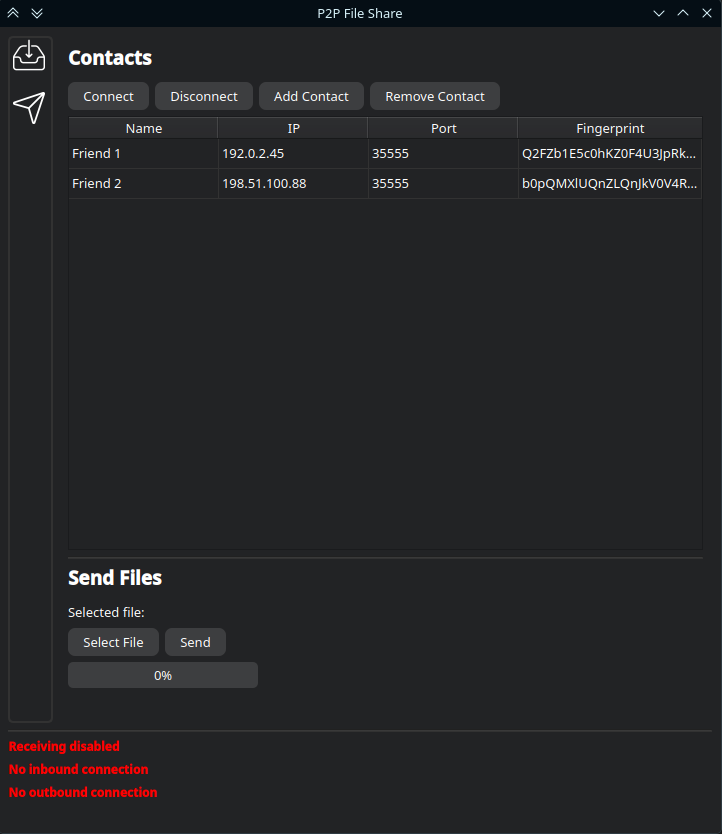
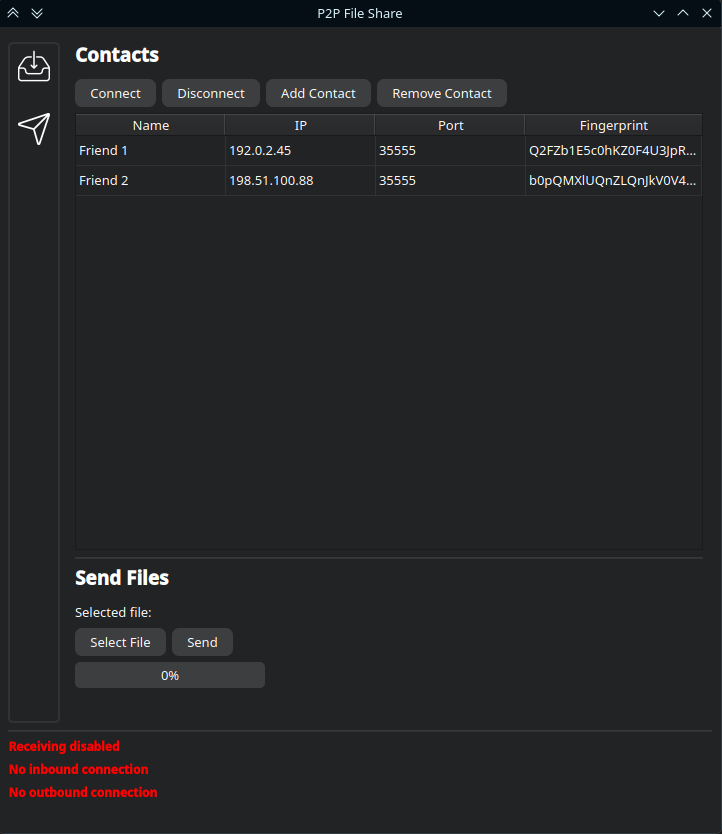
Small UI change + removed unused code

diff --git a/src/gui_layout.py b/src/gui_layout.py
@@ -27,17 +27,23 @@ class Ui_MainWindow(object):
         self.verticalLayout_23 = QtWidgets.QVBoxLayout()
         self.verticalLayout_23.setObjectName("verticalLayout_23")
         self.horizontalLayout_4 = QtWidgets.QHBoxLayout()
+        self.horizontalLayout_4.setContentsMargins(-1, 6, -1, -1)
         self.horizontalLayout_4.setObjectName("horizontalLayout_4")
         self.sidebar = QtWidgets.QListWidget(parent=self.centralwidget)
-        self.sidebar.setMaximumSize(QtCore.QSize(45, 16777215))
+        self.sidebar.setMaximumSize(QtCore.QSize(52, 16777215))
         self.sidebar.setStyleSheet("QListWidget {\n"
 "    outline: 0;\n"
 "    border: 2px solid rgb(50, 50, 50);\n"
 "    border-radius: 5px;\n"
+"}\n"
+"\n"
+"QListWidget::item {\n"
+"        padding: 5px;\n"
 "}")
         self.sidebar.setSelectionMode(QtWidgets.QAbstractItemView.SelectionMode.NoSelection)
         self.sidebar.setIconSize(QtCore.QSize(32, 32))
         self.sidebar.setMovement(QtWidgets.QListView.Movement.Static)
+        self.sidebar.setFlow(QtWidgets.QListView.Flow.TopToBottom)
         self.sidebar.setResizeMode(QtWidgets.QListView.ResizeMode.Adjust)
         self.sidebar.setViewMode(QtWidgets.QListView.ViewMode.IconMode)
         self.sidebar.setItemAlignment(QtCore.Qt.AlignmentFlag.AlignCenter)
@@ -48,6 +54,7 @@ class Ui_MainWindow(object):
         self.receivePage = QtWidgets.QWidget()
         self.receivePage.setObjectName("receivePage")
         self.verticalLayout = QtWidgets.QVBoxLayout(self.receivePage)
+        self.verticalLayout.setContentsMargins(-1, 0, -1, -1)
         self.verticalLayout.setObjectName("verticalLayout")
         self.horizontalLayout_18 = QtWidgets.QHBoxLayout()
         self.horizontalLayout_18.setObjectName("horizontalLayout_18")
@@ -450,6 +457,7 @@ class Ui_MainWindow(object):
         self.sendPage = QtWidgets.QWidget()
         self.sendPage.setObjectName("sendPage")
         self.verticalLayout_29 = QtWidgets.QVBoxLayout(self.sendPage)
+        self.verticalLayout_29.setContentsMargins(-1, 0, -1, -1)
         self.verticalLayout_29.setObjectName("verticalLayout_29")
         self.verticalLayout_24 = QtWidgets.QVBoxLayout()
         self.verticalLayout_24.setObjectName("verticalLayout_24")
@@ -764,6 +772,7 @@ class Ui_MainWindow(object):
         self.loadingPage = QtWidgets.QWidget()
         self.loadingPage.setObjectName("loadingPage")
         self.verticalLayout_4 = QtWidgets.QVBoxLayout(self.loadingPage)
+        self.verticalLayout_4.setContentsMargins(-1, 0, -1, -1)
         self.verticalLayout_4.setObjectName("verticalLayout_4")
         spacerItem21 = QtWidgets.QSpacerItem(20, 40, QtWidgets.QSizePolicy.Policy.Minimum, QtWidgets.QSizePolicy.Policy.Expanding)
         self.verticalLayout_4.addItem(spacerItem21)

diff --git a/src/network.py b/src/network.py
@@ -219,10 +219,6 @@ class Network:
 
         while self._receiving_enabled:
             try:
-                if self._inbound_connection:
-                    time.sleep(1)
-                    continue
-
                 self._accept_connections_event.clear()  # Clear the event since it may have been set
 
                 newsocket, address = self._host_socket.accept()
